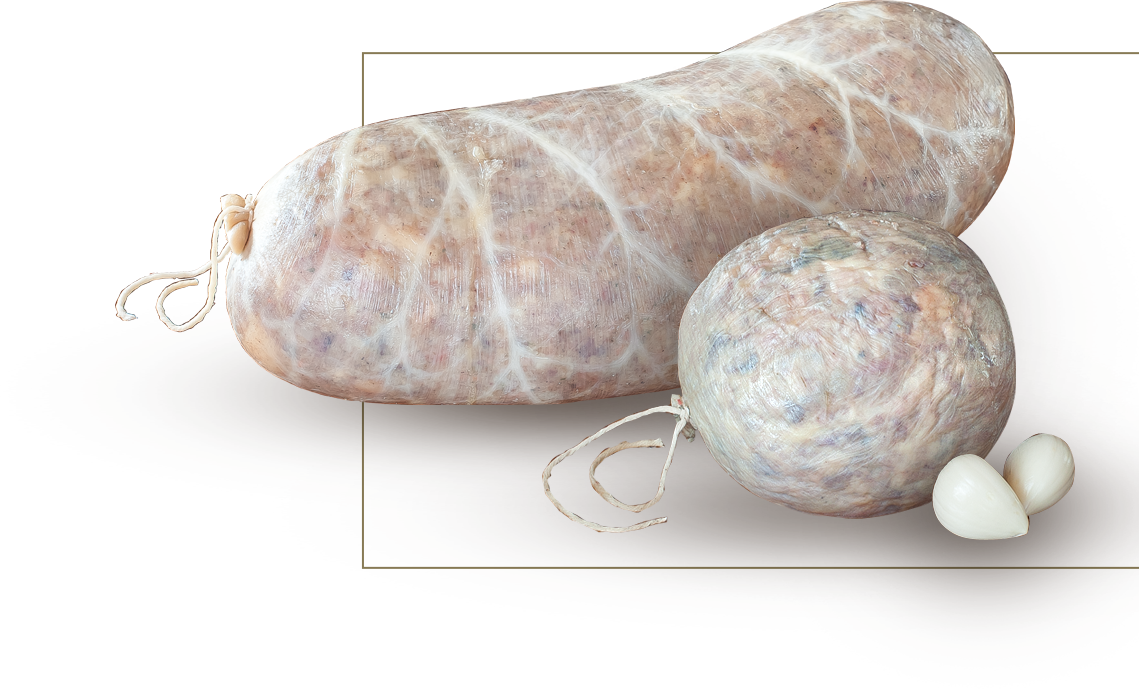
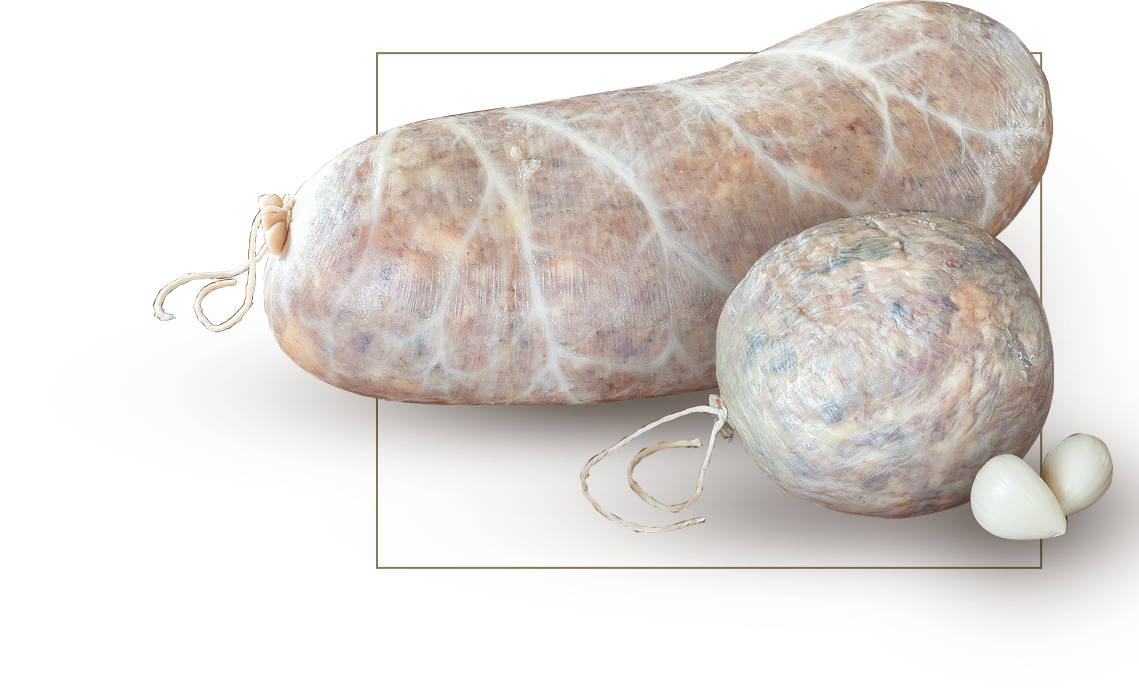
main page img fix

Changed region(s): [[0.0922, 0.0, 1.0, 0.8194]]

diff --git a/shmaster/css/style.min.css b/shmaster/css/style.min.css
@@ -1,3 +1,3 @@
 a,abbr,acronym,address,applet,article,aside,audio,b,big,blockquote,body,canvas,caption,center,cite,code,dd,del,details,dfn,div,dl,dt,em,embed,fieldset,figcaption,figure,footer,form,h1,h2,h3,h4,h5,h6,header,hgroup,html,i,iframe,img,ins,kbd,label,legend,li,main,mark,menu,nav,object,ol,output,p,pre,q,ruby,s,samp,section,small,span,strike,strong,sub,summary,sup,table,tbody,td,tfoot,th,thead,time,tr,tt,u,ul,var,video{margin:0;padding:0;border:0;vertical-align:baseline}article,aside,details,figcaption,figure,footer,header,hgroup,main,menu,nav,section{display:block}body{line-height:1}ol,ul{list-style:none}blockquote,q{quotes:none}blockquote:after,blockquote:before,q:after,q:before{content:'';content:none}a:active,a:hover{outline:0}table{border-collapse:collapse;border-spacing:0}
-body,html{font-family:Lato,sans-serif}body{max-width:1600px;margin:0 auto;padding:30px 70px;position:relative;color:#f4efed}html{background-size:cover;background-image:url(../img/background.jpg)}.header{display:-webkit-box;display:-ms-flexbox;display:flex;-webkit-box-orient:horizontal;-webkit-box-direction:normal;-ms-flex-flow:row wrap;flex-flow:row wrap;-webkit-box-pack:justify;-ms-flex-pack:justify;justify-content:space-between;-webkit-box-align:center;-ms-flex-align:center;align-items:center;margin-bottom:30px}.header-info__link{display:block;color:#f4efed;text-decoration:none;font-size:16px;padding-bottom:10px;-webkit-transition:.4s ease all;transition:.4s ease all}.header-info__link:hover{opacity:.7}.header-search{outline:0;cursor:pointer;color:#f4efed;font-family:Lato,sans-serif}.header-search[type=search]{-webkit-appearance:textfield;-webkit-box-sizing:content-box;font-family:inherit;font-size:100%}.header-search::-webkit-search-cancel-button,.header-search::-webkit-search-decoration{display:none}.header-logo{-webkit-transition:.3s ease all;transition:.3s ease all}.header-search[type=search]{background:#ededed url(../img/search.png) no-repeat 9px center;border:solid 2px #877a55;padding:9px 10px 9px 32px;width:55px;background-color:transparent;-webkit-transition:all .5s;transition:all .5s}.header-search[type=search]:focus{width:33%;background-color:transparent;border-color:#877a55;-webkit-box-shadow:0 0 5px rgba(109,207,246,.5);box-shadow:0 0 5px rgba(109,207,246,.5)}.header-search:-moz-placeholder{color:#999}.header-search::-webkit-.header-search-placeholder{color:#999}.menu{display:-webkit-box;display:-ms-flexbox;display:flex;-webkit-box-orient:horizontal;-webkit-box-direction:normal;-ms-flex-flow:row wrap;flex-flow:row wrap;-webkit-box-pack:center;-ms-flex-pack:center;justify-content:center;margin-bottom:30px}.menu-item{width:calc(100%/6 - 143px);display:inline-block;padding:15px 70px;cursor:pointer;border:2px solid #877a55;text-align:center;margin-left:-2px;-webkit-transition:.3s ease all;transition:.3s ease all}.menu-item:first-child{border-left:2px solid #877a55}.menu-item__link{color:#f4efed;text-decoration:none}.menu-item:hover{background-color:#877a55}.menu-item.active{background-color:#877a55}.promo{height:550px}.promo__img{height:600px;right:70px;position:absolute}.promo__text{position:relative;top:30px;float:left;width:440px;text-transform:uppercase;text-align:center;font-weight:700;left:20px}.promo__text h1{font-size:42px;line-height:1.3em}.wrapper{max-width:1200px;margin:0 auto}.benefits{margin-top:50px}.promo__text-img{margin-top:20px}.benefits h2{text-align:center;font-size:24px;font-weight:400}.benefits h1{text-align:center;font-size:50px;text-transform:uppercase;margin-top:60px}.benefits-points{margin-top:40px;display:-webkit-box;display:-ms-flexbox;display:flex;-webkit-box-orient:horizontal;-webkit-box-direction:normal;-ms-flex-flow:row wrap;flex-flow:row wrap;-webkit-box-pack:justify;-ms-flex-pack:justify;justify-content:space-between;margin-bottom:65px;position:relative;z-index:1}.benefits-points-item{width:325px;height:325px;border-radius:100%;border:3px solid #877a55;padding:10px;cursor:pointer;-webkit-backface-visibility:hidden;backface-visibility:hidden;-webkit-transform:translateZ(0);transform:translateZ(0)}.benefits-points-item:hover .benefits-points-item__inner{-webkit-transform:scale(1.1);transform:scale(1.1)}.benefits-points-item__inner{-webkit-font-smoothing:subpixel-antialiased;-webkit-backface-visibility:hidden;backface-visibility:hidden;-webkit-transform:translateZ(0);transform:translateZ(0);text-align:center;vertical-align:middle;display:table-cell;background:#fff;width:325px;height:325px;border-radius:100%;-webkit-transition:.3s ease all;transition:.3s ease all;-webkit-box-shadow:0 32px 41px -1px rgba(0,0,0,.75),inset 0 0 121px -9px rgba(0,0,0,.75);box-shadow:0 32px 41px -1px rgba(0,0,0,.75),inset 0 0 121px -9px rgba(0,0,0,.75)}.benefits__img{position:absolute;left:0;margin-top:-210px}.inner__text{padding:25px;color:#877a55;font-size:24px;line-height:1.5em}.feedback__banner{text-align:center}.feedback__img-right{position:absolute;right:0;margin-top:25px}.feedback h1{margin-top:150px;text-align:center;font-size:50px;text-transform:uppercase}.feedback h3{font-size:20px;font-weight:400;text-align:center;margin-top:20px}.feedback-form{width:450px;margin:0 auto;margin-top:50px;text-align:center}.feedback-form__input{font-family:Lato,sans-serif;width:100%;outline:0;background:0 0;border:none;border-bottom:2px solid #877a55;margin-bottom:20px;padding-bottom:10px;color:#fff}::-webkit-input-placeholder{opacity:.8;color:#fff;font-family:Lato,sans-serif;-webkit-transition:.2s ease all;transition:.2s ease all}.feedback-form__input:focus::-webkit-input-placeholder{opacity:0}.feedback-form__button{display:inline-block;width:calc(100% - 20px);margin-top:10px;border:2px solid #877a55;color:#f4efed;text-decoration:none;padding:10px;-webkit-transition:.3s ease all;transition:.3s ease all;font-size:24px}.feedback-form__button:hover{background-color:#877a55}.footer{margin-top:100px}.footer-menu{display:-webkit-box;display:-ms-flexbox;display:flex;-webkit-box-orient:horizontal;-webkit-box-direction:normal;-ms-flex-flow:row wrap;flex-flow:row wrap;-webkit-box-pack:center;-ms-flex-pack:center;justify-content:center;list-style-type:none}.footer-menu-item{border-right:2px solid #877a55;padding:5px 25px}.footer-menu-item:last-child{border:none}.footer-menu-item__link{color:#f4efed;text-decoration:none;-webkit-transition:.3s ease all;transition:.3s ease all}.footer-menu-item:hover .footer-menu-item__link{color:#877a55}.footer__copyright{text-align:center;font-size:16px;font-weight:300;margin-top:40px}.header-mobile{position:fixed;display:none;width:100%;background:#756949;z-index:100;left:0;top:0;height:100px;padding:10px;border-bottom:2px solid #454138;-webkit-box-align:center;-ms-flex-align:center;align-items:center;-ms-flex-pack:distribute;justify-content:space-around}.header-mobile__button-burger{display:inline-block;cursor:pointer;width:60px;z-index:10;position:relative;padding:10px}.button-burger__bar--top{width:100%;height:2px;background:#fff;margin-bottom:5px;-webkit-transition:all ease .3s;transition:all ease .3s}.button-burger__bar--bot{width:100%;height:2px;background:#fff;margin-bottom:5px;-webkit-transition:all ease .3s;transition:all ease .3s}.button-burger__bar--middle{width:100%;height:2px;background:#fff;margin-bottom:5px;-webkit-transition:all ease .3s;transition:all ease .3s}.menu{margin-top:100px}.menu-active .button-burger__bar--top{-webkit-transform:rotate(45deg);transform:rotate(45deg)}.menu-active .button-burger__bar--bot{-webkit-transform:rotate(-45deg);transform:rotate(-45deg);top:-7px;position:relative}.menu-active .button-burger__bar--middle{display:none}.menu.active{display:-webkit-box;display:-ms-flexbox;display:flex;-webkit-transform:translate3d(0,0,0);transform:translate3d(0,0,0)}.contacts-factory{padding-top:20px;-webkit-box-orient:horizontal;-webkit-box-direction:normal;-ms-flex-flow:row wrap;flex-flow:row wrap;display:-webkit-box;display:-ms-flexbox;display:flex;-webkit-box-pack:justify;-ms-flex-pack:justify;justify-content:space-between}.contacts-factory__description{font-size:22px;width:45%}.contacts-factory__img{width:50%}.contacts-factory__description h1{text-transform:uppercase;display:inline-block;font-size:52px;line-height:.5em;margin-bottom:40px}.contacts-factory__description h1:after{content:"";height:3px;width:100%;display:inline-block;background-color:#8b7d56}.contacts-factory__description p{line-height:1.2em;letter-spacing:1px}.contacts-factory__description i{font-weight:700}.contacts-factory__description-phones{margin:40px 0}.contacts-factory__description-phones p{font-size:24px}.contacts-phones__title{font-size:22px;text-align:center;font-weight:700}.contacts-phones{margin:30px 0}.contacts-phones__numbers{margin:10px 0;display:-webkit-box;display:-ms-flexbox;display:flex;-webkit-box-orient:horizontal;-webkit-box-direction:normal;-ms-flex-flow:row wrap;flex-flow:row wrap;-ms-flex-pack:distribute;justify-content:space-around;-webkit-box-align:center;-ms-flex-align:center;align-items:center}.numbers__phone{font-size:36px;font-weight:700}.numbers__dot{display:inline-block;height:10px;width:10px;background:#877a55;border-radius:100%}.contacts-staff-title{font-size:22px;text-align:center;margin-top:40px;margin-bottom:30px}.contacts-staff{display:-webkit-box;display:-ms-flexbox;display:flex;-webkit-box-orient:horizontal;-webkit-box-direction:normal;-ms-flex-flow:row wrap;flex-flow:row wrap;-webkit-box-pack:justify;-ms-flex-pack:justify;justify-content:space-between}.contacts-staff__profile{margin:50px 0;width:45%;position:relative}.profile__photo{position:relative;z-index:1;margin-right:20px;float:left;height:224px;width:194px;overflow:hidden}.profile__background{position:absolute;top:-35px;left:20px}.profile__region{font-size:32px;font-weight:700}.profile-description{position:relative;z-index:1}.profile-description__name{font-size:18px;letter-spacing:1px}.profile-description__region{letter-spacing:1px;font-size:28px;font-weight:700;margin-bottom:20px}.profile-description__phone{margin:15px 0;font-size:28px;font-weight:700}.profile-description__socials{font-size:18px;margin:10px 0}.profile-description__socials .fa{padding-right:10px}.phone__fix{font-size:26px;margin:10px 0}.about-history p{letter-spacing:1px}.about{padding-top:40px}.about-history h1{text-transform:uppercase;display:inline-block;font-size:50px;line-height:1em;margin-bottom:40px}.about-history h1:after{content:"";height:3px;width:100%;display:inline-block;background-color:#8b7d56}.about-history p{padding:12px 0;font-size:20px;line-height:1.3em}.about-history__first{width:75%;margin-bottom:350px}.about-history__meat-top{position:absolute;right:0;height:850px;top:530px}.about-history__second{padding-left:30%;margin-bottom:500px}.about-history__meat-middle{position:absolute;left:0;top:1500px}.about-history__meat-bottom{width:51%;float:right}.timing{display:-webkit-box;display:-ms-flexbox;display:flex;-webkit-box-orient:horizontal;-webkit-box-direction:normal;-ms-flex-flow:row wrap;flex-flow:row wrap;-webkit-box-pack:center;-ms-flex-pack:center;justify-content:center;-webkit-box-align:center;-ms-flex-align:center;align-items:center;margin:30px 0}.timing__text{text-transform:uppercase;font-weight:700;font-size:50px;padding:0 50px}.about-history__banner{text-align:center;margin-top:100px}.suppliers-text{text-align:center;letter-spacing:1px}.suppliers-text ul{display:inline-block;font-weight:700;text-align:left}.suppliers-text ul{position:relative;font-size:22px}.suppliers-text ul li{padding-bottom:5px}.suppliers-text ul li:before{content:"";display:block;height:7px;width:7px;border-radius:100%;background-color:#fff;position:absolute;left:-20px;margin-top:9px}.suppliers-middle{margin:40px 0}.suppliers-middle img{float:right;padding-left:150px}.suppliers-last{margin-top:30px}.products{position:relative;display:-webkit-box;display:-ms-flexbox;display:flex;-webkit-box-orient:horizontal;-webkit-box-direction:normal;-ms-flex-flow:row wrap;flex-flow:row wrap;-webkit-box-pack:justify;-ms-flex-pack:justify;justify-content:space-between;margin-bottom:50px}.procuts-item{cursor:pointer;width:33%}.procuts-item img{width:100%;margin-top:10px}.procuts-img-fix{width:auto!important}.products-item__title{font-size:21px;text-transform:uppercase;width:90%;line-height:1.2em;margin-bottom:10px}.products-item__title.active{position:relative;z-index:1}.products-inner{display:none;opacity:0;-webkit-transition:.3s ease all;transition:.3s ease all;position:absolute;top:60px;z-index:1;min-width:1200px;left:0}.products-inner-item{display:-webkit-box;display:-ms-flexbox;display:flex;-webkit-box-align:center;-ms-flex-align:center;align-items:center;width:33%;margin-top:-20px}.products-inner__title{font-size:24px;text-transform:uppercase;text-align:right;padding-right:5px}.products-inner.active{opacity:1;display:-webkit-box;display:-ms-flexbox;display:flex;-webkit-box-align:center;-ms-flex-align:center;align-items:center;-webkit-box-orient:horizontal;-webkit-box-direction:normal;-ms-flex-flow:row wrap;flex-flow:row wrap;-webkit-box-pack:center;-ms-flex-pack:center;justify-content:center}.modal{visibility:hidden;opacity:0;height:100%;width:100%;position:fixed;top:0;left:0;background-color:rgba(0,0,0,.9);-webkit-transition:.2s ease all;transition:.2s ease all}.modal.active{visibility:visible;opacity:1}.products-item-6 .procuts-item{width:16%}.products-router{padding-left:20px;color:#f4efed;font-size:16px;text-transform:none;-webkit-transition:.3s ease all;transition:.3s ease all}.products-item-6 .products-router{padding-left:0}.products-router:hover{color:#8b7d56}.products-nav{display:-webkit-box;display:-ms-flexbox;display:flex;-webkit-box-orient:horizontal;-webkit-box-direction:normal;-ms-flex-flow:row wrap;flex-flow:row wrap;-webkit-box-pack:justify;-ms-flex-pack:justify;justify-content:space-between;-webkit-box-align:start;-ms-flex-align:start;align-items:flex-start}.products-nav-list{width:70%}.products-nav-list__item{display:inline-block;position:relative;margin-right:10px;margin-bottom:5px}.products-nav-list__item:hover>a{color:#fff;position:relative;z-index:2}.products-nav-list__item:hover.products-nav-list__item:before{background-color:#fff;position:relative;z-index:2}.products-nav-list__item:hover .products-subnav-list{display:block}.products-nav-list__item:before{content:'';margin-right:10px;top:-2px;position:relative;height:7px;width:7px;border-radius:100%;display:inline-block;background-color:#837653;-webkit-transition:.3s ease all;transition:.3s ease all}.products-nav-list__item.active a{color:#fff}.products-nav-list__item.active:before{background-color:#fff}.products-nav-list__item a{font-weight:700;font-size:14px;color:#837653;text-decoration:none;-webkit-transition:.3s ease;transition:.3s ease}.products-preview{display:-webkit-box;display:-ms-flexbox;display:flex;-webkit-box-orient:horizontal;-webkit-box-direction:normal;-ms-flex-flow:row wrap;flex-flow:row wrap;-webkit-box-pack:justify;-ms-flex-pack:justify;justify-content:space-between}.products-preview-item__title{font-size:30px;margin-bottom:10px}.products-preview-item__name{font-size:30px;text-transform:uppercase;font-weight:700;width:40%;margin-bottom:10px}.products-preview-item__descr{font-size:18px;text-transform:uppercase;line-height:1.5em;width:48%;margin-bottom:30px}.products-preview-item{width:48%;margin-bottom:50px;letter-spacing:1px}.products-preview-item img{float:right;width:51%}.products-preview-item__about{float:left;-webkit-transition:.3s ease all;transition:.3s ease all;padding:10px 30px;background:#4e4732;background:-webkit-gradient(linear,left top,right top,from(#4e4732),color-stop(36%,#837653),color-stop(98%,#837653));background:linear-gradient(to right,#4e4732 0,#837653 36%,#837653 98%);display:inline-block;cursor:pointer;font-weight:700;font-size:20px;position:relative}.about-product{z-index:1;padding:15px;background-color:rgba(0,0,0,.9);position:absolute;right:-530px;top:0;width:500px;font-weight:lighter;font-size:18px;-webkit-transition:.2s ease all;transition:.2s ease all;visibility:hidden;opacity:0}.products-preview-item__about.active{background-position:130px}.products-preview-item__about.active .about-product{opacity:1;visibility:visible}.products-preview-item__more{display:inline-block;color:#fff;font-size:18px;-webkit-transition:.2s ease all;transition:.2s ease all;position:relative;top:10px;left:20px}.products-preview-item__more .fa{padding-left:2px}.products-preview-item__more:hover{color:#837653}.products-preview-item .img-fullmode{float:none;width:auto;margin:10px}.product-overview{display:-webkit-box;display:-ms-flexbox;display:flex;-webkit-box-orient:horizontal;-webkit-box-direction:normal;-ms-flex-flow:row wrap;flex-flow:row wrap;-webkit-box-pack:justify;-ms-flex-pack:justify;justify-content:space-between}.product-overview__descr{width:50%}.product-overview__img{text-align:center;width:48%}.product-overview__descr h2{font-weight:lighter;font-size:30px;margin-bottom:20px}.product-overview__descr h3{font-size:30px;font-weight:700;margin-bottom:30px}.product-overview__descr h4{font-size:20px;font-weight:lighter;margin-bottom:10px}.product-overview__img-prev{margin-top:40px;display:-webkit-box;display:-ms-flexbox;display:flex;-webkit-box-orient:horizontal;-webkit-box-direction:normal;-ms-flex-flow:row wrap;flex-flow:row wrap;-webkit-box-pack:center;-ms-flex-pack:center;justify-content:center;line-height:1.5em}.product-overview__img-prev img{height:150px;margin:10px;border:2px solid #877a55}.products-subnav-list{display:none;position:absolute;z-index:1;background-color:rgba(0,0,0,.9);padding:20px;top:-5px;width:300px;left:-10px}.products-subnav-list__item a:hover{color:#fff!important}.products-subnav-list__item a{color:#837653!important}.products-subnav-list__item{margin:10px}.products-subnav-list__item.active a{color:#fff!important}.img-days{float:right}.shop-list{padding:12px 0;font-size:20px;line-height:1.3em;list-style-type:disc}.map{position:relative}.map__brest{left:8px;bottom:42px}.map__grodno{left:57px;bottom:278px}.map__vitebsk{left:370px;bottom:572px;z-index:1}.map__mogilev{left:588px;bottom:268px}.map__minsk{left:347px;bottom:205px}.map__gomel{left:498px;bottom:5px}.map--item{position:absolute;cursor:pointer}.highlighted{opacity:0;z-index:2;-webkit-transition:all ease .3s;transition:all ease .3s}.highlighted.active{opacity:1}.map-block{position:relative}.contacts-staff__profile.map--contact{opacity:0;-webkit-transition:all ease .3s;transition:all ease .3s;margin:0;width:560px;position:absolute;-webkit-transform:scale(.7);transform:scale(.7);z-index:3}.map--contact .profile__background{background:#221511}.contacts-staff__profile.map--contact .profile-description__phone{font-size:20px}.contacts-staff__profile.map--contact.active{opacity:1}.grodno--contact{bottom:268px;left:-100px}.minsk--contact{bottom:368px;left:260px}.gomel--contact{bottom:100px;left:680px}.brest--contact{bottom:100px;left:40}.vitebsk--contact{bottom:650px;left:400px}.mogilev--contact{bottom:350px;right:50px}.map-mobile{display:none}.clients-points .inner__text{font-size:20px}.clients-alert{text-align:center}
+body,html{font-family:Lato,sans-serif}body{max-width:1600px;margin:0 auto;padding:30px 70px;position:relative;color:#f4efed}html{background-size:cover;background-image:url(../img/background.jpg)}.header{display:-webkit-box;display:-ms-flexbox;display:flex;-webkit-box-orient:horizontal;-webkit-box-direction:normal;-ms-flex-flow:row wrap;flex-flow:row wrap;-webkit-box-pack:justify;-ms-flex-pack:justify;justify-content:space-between;-webkit-box-align:center;-ms-flex-align:center;align-items:center;margin-bottom:30px}.header-info__link{display:block;color:#f4efed;text-decoration:none;font-size:16px;padding-bottom:10px;-webkit-transition:.4s ease all;transition:.4s ease all}.header-info__link:hover{opacity:.7}.header-search{outline:0;cursor:pointer;color:#f4efed;font-family:Lato,sans-serif}.header-search[type=search]{-webkit-appearance:textfield;-webkit-box-sizing:content-box;font-family:inherit;font-size:100%}.header-search::-webkit-search-cancel-button,.header-search::-webkit-search-decoration{display:none}.header-logo{-webkit-transition:.3s ease all;transition:.3s ease all}.header-search[type=search]{background:#ededed url(../img/search.png) no-repeat 9px center;border:solid 2px #877a55;padding:9px 10px 9px 32px;width:55px;background-color:transparent;-webkit-transition:all .5s;transition:all .5s}.header-search[type=search]:focus{width:33%;background-color:transparent;border-color:#877a55;-webkit-box-shadow:0 0 5px rgba(109,207,246,.5);box-shadow:0 0 5px rgba(109,207,246,.5)}.header-search:-moz-placeholder{color:#999}.header-search::-webkit-.header-search-placeholder{color:#999}.menu{display:-webkit-box;display:-ms-flexbox;display:flex;-webkit-box-orient:horizontal;-webkit-box-direction:normal;-ms-flex-flow:row wrap;flex-flow:row wrap;-webkit-box-pack:center;-ms-flex-pack:center;justify-content:center;margin-bottom:30px}.menu-item{width:calc(100%/6 - 143px);display:inline-block;padding:15px 70px;cursor:pointer;border:2px solid #877a55;text-align:center;margin-left:-2px;-webkit-transition:.3s ease all;transition:.3s ease all}.menu-item:first-child{border-left:2px solid #877a55}.menu-item__link{color:#f4efed;text-decoration:none}.menu-item:hover{background-color:#877a55}.menu-item.active{background-color:#877a55}.promo{height:550px}.promo__img{height:600px;right:70px;position:absolute}.promo__text{position:relative;top:30px;float:left;width:440px;text-transform:uppercase;text-align:center;font-weight:700;left:20px}.promo__text h1{font-size:42px;line-height:1.3em}.wrapper{max-width:1200px;margin:0 auto}.benefits{margin-top:50px}.promo__text-img{margin-top:20px}.benefits h2{text-align:center;font-size:24px;font-weight:400}.benefits h1{text-align:center;font-size:50px;text-transform:uppercase;margin-top:60px}.benefits-points{margin-top:40px;display:-webkit-box;display:-ms-flexbox;display:flex;-webkit-box-orient:horizontal;-webkit-box-direction:normal;-ms-flex-flow:row wrap;flex-flow:row wrap;-webkit-box-pack:justify;-ms-flex-pack:justify;justify-content:space-between;margin-bottom:65px;position:relative;z-index:1}.benefits-points-item{width:325px;height:325px;border-radius:100%;border:3px solid #877a55;padding:10px;cursor:pointer;-webkit-backface-visibility:hidden;backface-visibility:hidden;-webkit-transform:translateZ(0);transform:translateZ(0)}.benefits-points-item:hover .benefits-points-item__inner{-webkit-transform:scale(1.1);transform:scale(1.1)}.benefits-points-item__inner{-webkit-font-smoothing:subpixel-antialiased;-webkit-backface-visibility:hidden;backface-visibility:hidden;-webkit-transform:translateZ(0);transform:translateZ(0);text-align:center;vertical-align:middle;display:table-cell;background:#fff;width:325px;height:325px;border-radius:100%;-webkit-transition:.3s ease all;transition:.3s ease all;-webkit-box-shadow:0 32px 41px -1px rgba(0,0,0,.75),inset 0 0 121px -9px rgba(0,0,0,.75);box-shadow:0 32px 41px -1px rgba(0,0,0,.75),inset 0 0 121px -9px rgba(0,0,0,.75)}.benefits__img{left:0;margin-top:-177px}.inner__text{padding:25px;color:#877a55;font-size:24px;line-height:1.5em}.feedback__banner{text-align:center}.feedback__img-right{position:absolute;right:0;margin-top:25px}.feedback h1{margin-top:150px;text-align:center;font-size:50px;text-transform:uppercase}.feedback h3{font-size:20px;font-weight:400;text-align:center;margin-top:20px}.feedback-form{width:450px;margin:0 auto;margin-top:50px;text-align:center}.feedback-form__input{font-family:Lato,sans-serif;width:100%;outline:0;background:0 0;border:none;border-bottom:2px solid #877a55;margin-bottom:20px;padding-bottom:10px;color:#fff}::-webkit-input-placeholder{opacity:.8;color:#fff;font-family:Lato,sans-serif;-webkit-transition:.2s ease all;transition:.2s ease all}.feedback-form__input:focus::-webkit-input-placeholder{opacity:0}.feedback-form__button{display:inline-block;width:calc(100% - 20px);margin-top:10px;border:2px solid #877a55;color:#f4efed;text-decoration:none;padding:10px;-webkit-transition:.3s ease all;transition:.3s ease all;font-size:24px}.feedback-form__button:hover{background-color:#877a55}.footer{margin-top:100px}.footer-menu{display:-webkit-box;display:-ms-flexbox;display:flex;-webkit-box-orient:horizontal;-webkit-box-direction:normal;-ms-flex-flow:row wrap;flex-flow:row wrap;-webkit-box-pack:center;-ms-flex-pack:center;justify-content:center;list-style-type:none}.footer-menu-item{border-right:2px solid #877a55;padding:5px 25px}.footer-menu-item:last-child{border:none}.footer-menu-item__link{color:#f4efed;text-decoration:none;-webkit-transition:.3s ease all;transition:.3s ease all}.footer-menu-item:hover .footer-menu-item__link{color:#877a55}.footer__copyright{text-align:center;font-size:16px;font-weight:300;margin-top:40px}.header-mobile{position:fixed;display:none;width:100%;background:#756949;z-index:100;left:0;top:0;height:100px;padding:10px;border-bottom:2px solid #454138;-webkit-box-align:center;-ms-flex-align:center;align-items:center;-ms-flex-pack:distribute;justify-content:space-around}.header-mobile__button-burger{display:inline-block;cursor:pointer;width:60px;z-index:10;position:relative;padding:10px}.button-burger__bar--top{width:100%;height:2px;background:#fff;margin-bottom:5px;-webkit-transition:all ease .3s;transition:all ease .3s}.button-burger__bar--bot{width:100%;height:2px;background:#fff;margin-bottom:5px;-webkit-transition:all ease .3s;transition:all ease .3s}.button-burger__bar--middle{width:100%;height:2px;background:#fff;margin-bottom:5px;-webkit-transition:all ease .3s;transition:all ease .3s}.menu{margin-top:100px}.menu-active .button-burger__bar--top{-webkit-transform:rotate(45deg);transform:rotate(45deg)}.menu-active .button-burger__bar--bot{-webkit-transform:rotate(-45deg);transform:rotate(-45deg);top:-7px;position:relative}.menu-active .button-burger__bar--middle{display:none}.menu.active{display:-webkit-box;display:-ms-flexbox;display:flex;-webkit-transform:translate3d(0,0,0);transform:translate3d(0,0,0)}.contacts-factory{padding-top:20px;-webkit-box-orient:horizontal;-webkit-box-direction:normal;-ms-flex-flow:row wrap;flex-flow:row wrap;display:-webkit-box;display:-ms-flexbox;display:flex;-webkit-box-pack:justify;-ms-flex-pack:justify;justify-content:space-between}.contacts-factory__description{font-size:22px;width:45%}.contacts-factory__img{width:50%}.contacts-factory__description h1{text-transform:uppercase;display:inline-block;font-size:52px;line-height:.5em;margin-bottom:40px}.contacts-factory__description h1:after{content:"";height:3px;width:100%;display:inline-block;background-color:#8b7d56}.contacts-factory__description p{line-height:1.2em;letter-spacing:1px}.contacts-factory__description i{font-weight:700}.contacts-factory__description-phones{margin:40px 0}.contacts-factory__description-phones p{font-size:24px}.contacts-phones__title{font-size:22px;text-align:center;font-weight:700}.contacts-phones{margin:30px 0}.contacts-phones__numbers{margin:10px 0;display:-webkit-box;display:-ms-flexbox;display:flex;-webkit-box-orient:horizontal;-webkit-box-direction:normal;-ms-flex-flow:row wrap;flex-flow:row wrap;-ms-flex-pack:distribute;justify-content:space-around;-webkit-box-align:center;-ms-flex-align:center;align-items:center}.numbers__phone{font-size:36px;font-weight:700}.numbers__dot{display:inline-block;height:10px;width:10px;background:#877a55;border-radius:100%}.contacts-staff-title{font-size:22px;text-align:center;margin-top:40px;margin-bottom:30px}.contacts-staff{display:-webkit-box;display:-ms-flexbox;display:flex;-webkit-box-orient:horizontal;-webkit-box-direction:normal;-ms-flex-flow:row wrap;flex-flow:row wrap;-webkit-box-pack:justify;-ms-flex-pack:justify;justify-content:space-between}.contacts-staff__profile{margin:50px 0;width:45%;position:relative}.profile__photo{position:relative;z-index:1;margin-right:20px;float:left;height:224px;width:194px;overflow:hidden}.profile__background{position:absolute;top:-35px;left:20px}.profile__region{font-size:32px;font-weight:700}.profile-description{position:relative;z-index:1}.profile-description__name{font-size:18px;letter-spacing:1px}.profile-description__region{letter-spacing:1px;font-size:28px;font-weight:700;margin-bottom:20px}.profile-description__phone{margin:15px 0;font-size:28px;font-weight:700}.profile-description__socials{font-size:18px;margin:10px 0}.profile-description__socials .fa{padding-right:10px}.phone__fix{font-size:26px;margin:10px 0}.about-history p{letter-spacing:1px}.about{padding-top:40px}.about-history h1{text-transform:uppercase;display:inline-block;font-size:50px;line-height:1em;margin-bottom:40px}.about-history h1:after{content:"";height:3px;width:100%;display:inline-block;background-color:#8b7d56}.about-history p{padding:12px 0;font-size:20px;line-height:1.3em}.about-history__first{width:75%;margin-bottom:350px}.about-history__meat-top{position:absolute;right:0;height:850px;top:530px}.about-history__second{padding-left:30%;margin-bottom:500px}.about-history__meat-middle{position:absolute;left:0;top:1500px}.about-history__meat-bottom{width:51%;float:right}.timing{display:-webkit-box;display:-ms-flexbox;display:flex;-webkit-box-orient:horizontal;-webkit-box-direction:normal;-ms-flex-flow:row wrap;flex-flow:row wrap;-webkit-box-pack:center;-ms-flex-pack:center;justify-content:center;-webkit-box-align:center;-ms-flex-align:center;align-items:center;margin:30px 0}.timing__text{text-transform:uppercase;font-weight:700;font-size:50px;padding:0 50px}.about-history__banner{text-align:center;margin-top:100px}.suppliers-text{text-align:center;letter-spacing:1px}.suppliers-text ul{display:inline-block;font-weight:700;text-align:left}.suppliers-text ul{position:relative;font-size:22px}.suppliers-text ul li{padding-bottom:5px}.suppliers-text ul li:before{content:"";display:block;height:7px;width:7px;border-radius:100%;background-color:#fff;position:absolute;left:-20px;margin-top:9px}.suppliers-middle{margin:40px 0}.suppliers-middle img{float:right;padding-left:150px}.suppliers-last{margin-top:30px}.products{position:relative;display:-webkit-box;display:-ms-flexbox;display:flex;-webkit-box-orient:horizontal;-webkit-box-direction:normal;-ms-flex-flow:row wrap;flex-flow:row wrap;-webkit-box-pack:justify;-ms-flex-pack:justify;justify-content:space-between;margin-bottom:50px}.procuts-item{cursor:pointer;width:33%}.procuts-item img{width:100%;margin-top:10px}.procuts-img-fix{width:auto!important}.products-item__title{font-size:21px;text-transform:uppercase;width:90%;line-height:1.2em;margin-bottom:10px}.products-item__title.active{position:relative;z-index:1}.products-inner{display:none;opacity:0;-webkit-transition:.3s ease all;transition:.3s ease all;position:absolute;top:60px;z-index:1;min-width:1200px;left:0}.products-inner-item{display:-webkit-box;display:-ms-flexbox;display:flex;-webkit-box-align:center;-ms-flex-align:center;align-items:center;width:33%;margin-top:-20px}.products-inner__title{font-size:24px;text-transform:uppercase;text-align:right;padding-right:5px}.products-inner.active{opacity:1;display:-webkit-box;display:-ms-flexbox;display:flex;-webkit-box-align:center;-ms-flex-align:center;align-items:center;-webkit-box-orient:horizontal;-webkit-box-direction:normal;-ms-flex-flow:row wrap;flex-flow:row wrap;-webkit-box-pack:center;-ms-flex-pack:center;justify-content:center}.modal{visibility:hidden;opacity:0;height:100%;width:100%;position:fixed;top:0;left:0;background-color:rgba(0,0,0,.9);-webkit-transition:.2s ease all;transition:.2s ease all}.modal.active{visibility:visible;opacity:1}.products-item-6 .procuts-item{width:16%}.products-router{padding-left:20px;color:#f4efed;font-size:16px;text-transform:none;-webkit-transition:.3s ease all;transition:.3s ease all}.products-item-6 .products-router{padding-left:0}.products-router:hover{color:#8b7d56}.products-nav{display:-webkit-box;display:-ms-flexbox;display:flex;-webkit-box-orient:horizontal;-webkit-box-direction:normal;-ms-flex-flow:row wrap;flex-flow:row wrap;-webkit-box-pack:justify;-ms-flex-pack:justify;justify-content:space-between;-webkit-box-align:start;-ms-flex-align:start;align-items:flex-start}.products-nav-list{width:70%}.products-nav-list__item{display:inline-block;position:relative;margin-right:10px;margin-bottom:5px}.products-nav-list__item:hover>a{color:#fff;position:relative;z-index:2}.products-nav-list__item:hover.products-nav-list__item:before{background-color:#fff;position:relative;z-index:2}.products-nav-list__item:hover .products-subnav-list{display:block}.products-nav-list__item:before{content:'';margin-right:10px;top:-2px;position:relative;height:7px;width:7px;border-radius:100%;display:inline-block;background-color:#837653;-webkit-transition:.3s ease all;transition:.3s ease all}.products-nav-list__item.active a{color:#fff}.products-nav-list__item.active:before{background-color:#fff}.products-nav-list__item a{font-weight:700;font-size:14px;color:#837653;text-decoration:none;-webkit-transition:.3s ease;transition:.3s ease}.products-preview{display:-webkit-box;display:-ms-flexbox;display:flex;-webkit-box-orient:horizontal;-webkit-box-direction:normal;-ms-flex-flow:row wrap;flex-flow:row wrap;-webkit-box-pack:justify;-ms-flex-pack:justify;justify-content:space-between}.products-preview-item__title{font-size:30px;margin-bottom:10px}.products-preview-item__name{font-size:30px;text-transform:uppercase;font-weight:700;width:40%;margin-bottom:10px}.products-preview-item__descr{font-size:18px;text-transform:uppercase;line-height:1.5em;width:48%;margin-bottom:30px}.products-preview-item{width:48%;margin-bottom:50px;letter-spacing:1px}.products-preview-item img{float:right;width:51%}.products-preview-item__about{float:left;-webkit-transition:.3s ease all;transition:.3s ease all;padding:10px 30px;background:#4e4732;background:-webkit-gradient(linear,left top,right top,from(#4e4732),color-stop(36%,#837653),color-stop(98%,#837653));background:linear-gradient(to right,#4e4732 0,#837653 36%,#837653 98%);display:inline-block;cursor:pointer;font-weight:700;font-size:20px;position:relative}.about-product{z-index:1;padding:15px;background-color:rgba(0,0,0,.9);position:absolute;right:-530px;top:0;width:500px;font-weight:lighter;font-size:18px;-webkit-transition:.2s ease all;transition:.2s ease all;visibility:hidden;opacity:0}.products-preview-item__about.active{background-position:130px}.products-preview-item__about.active .about-product{opacity:1;visibility:visible}.products-preview-item__more{display:inline-block;color:#fff;font-size:18px;-webkit-transition:.2s ease all;transition:.2s ease all;position:relative;top:10px;left:20px}.products-preview-item__more .fa{padding-left:2px}.products-preview-item__more:hover{color:#837653}.products-preview-item .img-fullmode{float:none;width:auto;margin:10px}.product-overview{display:-webkit-box;display:-ms-flexbox;display:flex;-webkit-box-orient:horizontal;-webkit-box-direction:normal;-ms-flex-flow:row wrap;flex-flow:row wrap;-webkit-box-pack:justify;-ms-flex-pack:justify;justify-content:space-between}.product-overview__descr{width:50%}.product-overview__img{text-align:center;width:48%}.product-overview__descr h2{font-weight:lighter;font-size:30px;margin-bottom:20px}.product-overview__descr h3{font-size:30px;font-weight:700;margin-bottom:30px}.product-overview__descr h4{font-size:20px;font-weight:lighter;margin-bottom:10px}.product-overview__img-prev{margin-top:40px;display:-webkit-box;display:-ms-flexbox;display:flex;-webkit-box-orient:horizontal;-webkit-box-direction:normal;-ms-flex-flow:row wrap;flex-flow:row wrap;-webkit-box-pack:center;-ms-flex-pack:center;justify-content:center;line-height:1.5em}.product-overview__img-prev img{height:150px;margin:10px;border:2px solid #877a55}.products-subnav-list{display:none;position:absolute;z-index:1;background-color:rgba(0,0,0,.9);padding:20px;top:-5px;width:300px;left:-10px}.products-subnav-list__item a:hover{color:#fff!important}.products-subnav-list__item a{color:#837653!important}.products-subnav-list__item{margin:10px}.products-subnav-list__item.active a{color:#fff!important}.img-days{float:right}.shop-list{padding:12px 0;font-size:20px;line-height:1.3em;list-style-type:disc}.map{position:relative}.map__brest{left:8px;bottom:42px}.map__grodno{left:57px;bottom:278px}.map__vitebsk{left:370px;bottom:572px;z-index:1}.map__mogilev{left:588px;bottom:268px}.map__minsk{left:347px;bottom:205px}.map__gomel{left:498px;bottom:5px}.map--item{position:absolute;cursor:pointer}.highlighted{opacity:0;z-index:2;-webkit-transition:all ease .3s;transition:all ease .3s}.highlighted.active{opacity:1}.map-block{position:relative}.contacts-staff__profile.map--contact{opacity:0;-webkit-transition:all ease .3s;transition:all ease .3s;margin:0;width:560px;position:absolute;-webkit-transform:scale(.7);transform:scale(.7);z-index:3}.map--contact .profile__background{background:#221511}.contacts-staff__profile.map--contact .profile-description__phone{font-size:20px}.contacts-staff__profile.map--contact.active{opacity:1}.grodno--contact{bottom:268px;left:-100px}.minsk--contact{bottom:368px;left:260px}.gomel--contact{bottom:100px;left:680px}.brest--contact{bottom:100px;left:40}.vitebsk--contact{bottom:650px;left:400px}.mogilev--contact{bottom:350px;right:50px}.map-mobile{display:none}.clients-points .inner__text{font-size:20px}.clients-alert{text-align:center}
 @media (max-width:1470px){.products-inner-item{width:100%}.about-history__meat-top{top:740px;height:707px}.about-history__first{width:65%;margin-bottom:420px}.about-history__meat-middle{left:-58px;width:100%;top:1700px}.promo__img{height:500px}.feedback__img-right{height:400px;margin-top:50px}.benefits__img{left:-180px}.menu-item{width:auto;padding:15px 49px}.numbers__phone{font-size:28px}.contacts-factory__img{width:40%}.contacts-factory__description{width:55%}.profile-description__region{font-size:24px}.profile-description__phone{font-size:24px}.profile-description__socials{font-size:16px}}@media (max-width:1200px){.map{display:none}.map-mobile{display:block;width:100%}.products-nav-list{width:100%;margin-bottom:30px}.about-product{left:0;min-width:300px}.products-inner{min-width:100%}.suppliers-middle img{padding-left:60px}.timing__text{padding:0 25px}.about-history__meat-top{display:none}.about-history__first{width:100%;margin-bottom:50px}.about-history__meat-top{display:none}.about-history__second{padding-left:0;margin-bottom:50px}.about-history__meat-middle{display:none}.contacts-staff__profile{width:80%}.contacts-staff{-webkit-box-pack:center;-ms-flex-pack:center;justify-content:center}.promo__img{display:none}.benefits__img{display:none}.benefits__img{display:none}.feedback__img-right{display:none}.promo__text{float:none;width:100%}.promo{height:auto}.benefits{margin-top:100px}.inner__text{font-size:32px}.benefits-points-item__inner{width:500px;height:500px}.benefits-points-item{width:500px;height:500px;margin:20px 0}.benefits-points{-webkit-box-pack:center;-ms-flex-pack:center;justify-content:center}.feedback__banner img{width:100%}.menu-item{padding:15px 20px}.header-search[type=search]:focus{width:100%}}@media (max-width:920px){.products-preview-item{width:100%}.about-product{right:-530px}.products-inner.active{position:fixed;top:125px;left:5px;overflow-y:scroll;overflow-x:hidden;max-height:calc(100% - 125px)}.products-item__title.active{z-index:0}.products-inner__title{font-size:16px;text-align:center}.products-item__img{text-align:center}.products-item-6 .procuts-item{width:50%}.procuts-item img{width:auto;height:150px}.products-item__title{width:100%}.procuts-item{width:auto;margin-bottom:20px}.products{-webkit-box-pack:center;-ms-flex-pack:center;justify-content:center}.about-history h1{font-size:32px;line-height:1em}.contacts-factory__description h1{font-size:32px}.suppliers-middle img{float:none;width:100%;padding:0}.suppliers-text{text-align:left}.suppliers{margin-top:100px}.timing__text{width:100%;text-align:center;margin:40px 0}.about{margin-top:100px}.contacts{margin-top:100PX}.numbers__phone{font-size:26px}.contacts-factory__description-phones p{font-size:20px}.contacts-staff__profile{width:100%;margin:25px 0}.contacts-factory__img{width:100%;margin:0 auto}.profile__background{display:none}.contacts-factory__description{width:100%}.promo__text{left:0}body{padding:30px 30px}.footer-menu-item{width:100%;border:none;padding:10px 25px;text-align:center}.footer-menu-item__link{font-size:2em}.footer__copyright{font-size:20px}.footer{margin-top:50px}.promo__text h1{font-size:28px}.benefits h1{font-size:42px}.header-mobile{display:-webkit-box;display:-ms-flexbox;display:flex}.header{display:none}.header-logo img{height:70px}.menu{background:#756949;margin-top:90px;position:fixed;width:100%;left:0;z-index:99;-webkit-transform:translate3d(0,-200%,0);transform:translate3d(0,-200%,0);-webkit-transition:.3s transform ease;transition:.3s transform ease}.menu-item{width:100%;border:none;border-top:2px solid #877a55}.promo{margin-top:100px}}@media (max-width:640px){.product-overview__img>img{width:100%}.product-overview__descr h3{font-size:24px}.product-overview__descr h2{font-size:24px}.product-overview__descr h4{font-size:18px}.product-overview__descr{width:100%}.product-overview__img{width:100%}.products-subnav-list{width:90%}.products-preview-item__title{font-size:22px}.products-preview-item__name{font-size:24px}.products-preview-item__descr{font-size:16px}.products-preview-item__about{float:none}.products-preview-item__more{display:block;left:0;margin-top:20px;top:0}.products-nav-list__item{width:100%}.products-preview-item img{float:none;width:100%}.products-preview-item .img-fullmode{float:none;width:100%}.products-preview-item__descr{width:100%}.products-preview-item__name{width:100%}.about-product{width:auto;min-width:250px;right:auto;left:0;top:40px}.products-item__title{text-align:center}.procuts-img-fix{width:100%}.procuts-item img{width:auto;height:auto}.products-item-6 .procuts-item{width:100%}.about-history__banner img{width:100%}.about-history__meat-bottom{display:none}.contacts-staff__profile{margin:10px 0;text-align:center}.numbers__dot{display:none}.numbers__phone{text-align:center;width:100%}.contacts-staff__profile{margin:25px 0}.profile__photo{margin:0 auto;width:100%;float:none;margin-bottom:20px}.promo__text-img{width:100%}.promo__text h1{font-size:22px}.benefits h1{font-size:32px;margin-top:30px}.benefits{margin-top:75px}.feedback h1{margin-top:50px;font-size:32px}.feedback-form{width:100%}.inner__text{font-size:16px}.benefits-points-item{width:255px;height:255px}.benefits-points-item__inner{width:255px;height:255px}.header-logo img{height:50px}.header-info__link{font-size:13px}}@media (max-width:450px){.procuts-item img{width:100%}.header-info{display:none}.footer-menu-item{font-size:13px;padding:8px 25px}}

diff --git a/shmaster/index.html b/shmaster/index.html
@@ -122,7 +122,6 @@
                 </div>
             </div>
         </div>
-        <img src="img/main/meat-left.png" class="benefits__img" alt="">
         <h2>Продукцию “Шацкого Мастера”  можно найти в крупных республиканских торговых сетях:<br>
 Евроторг, Корона, Гиппо, Алми, Соседи, Рублевский, Мартин, а также в небольших<br>
 магазинах частных торговых предприятий.</h2>
@@ -148,6 +147,7 @@
             </div>
         </div>
     </section>
+    <img src="img/main/meat-left.png" class="benefits__img" alt="">
     <section class="feedback wrapper">
         <div class="feedback__banner"><img src="img/main/coop.png" alt="">
             <!--        <img src="img/main/meat-right.png" class="feedback__img-right" alt=""> -->

diff --git a/shmaster/css/style.css b/shmaster/css/style.css
@@ -224,9 +224,8 @@ html {
 }
 
 .benefits__img {
-    position: absolute;
     left: 0;
-    margin-top: -210px;
+    margin-top: -177px;
 }
 
 .inner__text {
